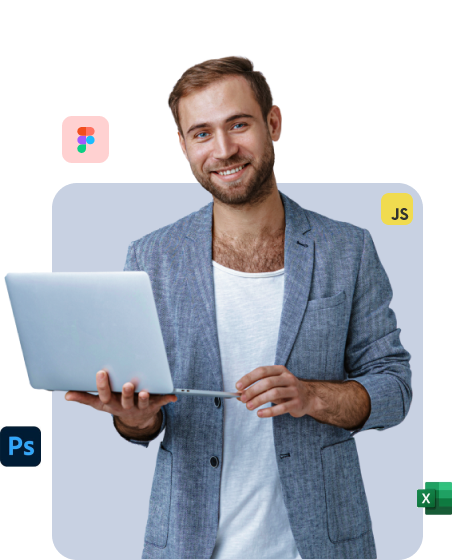
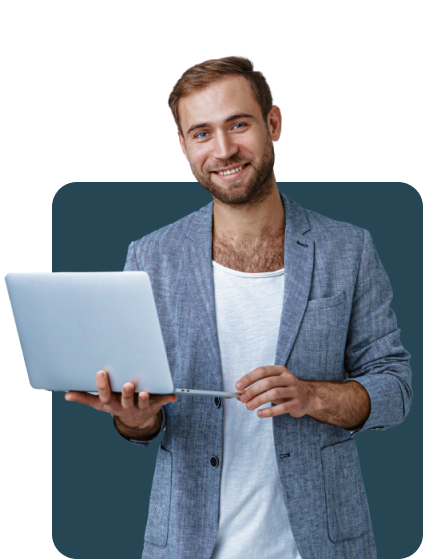
cambios en landing

diff --git a/src/Components/Header/Header.css b/src/Components/Header/Header.css
@@ -2,7 +2,7 @@
     left: 0;
     position: fixed;
     margin: 0 auto;
-    padding: 30px 0;
+    padding: 20px 0;
     top: 0;
     width: 100%;
     background-color: #fffcfcb8;
@@ -32,10 +32,10 @@
     font-size: 32px;
     font-weight: 700;
     text-decoration: none;
-    color: #757F8F;
+    color: #E76F51;
 }
 .work {
-    color: #273141;
+    color: #264653;
 }
 .nav {
     display: flex;
@@ -57,13 +57,23 @@
     cursor: pointer;
 }
 .button_login {
-    color: #757F8F;
-    border: 1px solid #8D8D8D;
-    background-color: transparent
+    color: white;
+    border: 1px solid #2A9D8F;
+    background-color: #2A9D8F
+}
+.button_login:hover{
+    background-color: #264653;
+    border: 1px solid #264653;
 }
 .button_register {
-   background-color: #757F8F;
-   color: #FFF
+   background-color: #F4A261;
+   border: 1px solid #F4A261;
+   color: white
+
+}
+.button_register:hover{
+   background-color: #E76F51;
+   border: 1px solid #E76F51;
 }
 .Header_ModalLogin {
     position: absolute;

diff --git a/src/Components/LandingPage/LandingPage.tsx b/src/Components/LandingPage/LandingPage.tsx
@@ -1,9 +1,13 @@
 import React, { useEffect } from 'react';
-import Top from './Top/Top';
+import TopClient from './TopClient/TopClient';
+import TopWorker from './TopWorker/TopWorker';
 import Header from '../Header/Header';
 import './LandingPage.css';
 import { useDispatch } from 'react-redux';
 import { checkSession } from '../../Redux/Reducer/reducer';
+import { Link } from 'react-router-dom';
+import newTab from "../../images/openNewTab.png"
+
 
 const LandingPage = () => {
   const dispatch = useDispatch();
@@ -16,7 +20,11 @@ const LandingPage = () => {
     <main className='Landing_component'>
         <Header/>
         <div className='Landing_divContent'>
-          <Top />
+          <TopClient/>
+          <TopWorker/>
+        </div>
+        <div className='Landing_buttonLogin'>
+        <Link to="/home" className='Landing_buttonAcceder'>Prueba la APP<img className='new_tabIcon' src={newTab} alt="" /></Link>
         </div>
     </main>
   )

diff --git a/src/Components/LandingPage/TopWorker/TopWorker.tsx b/src/Components/LandingPage/TopWorker/TopWorker.tsx
@@ -1,0 +1,21 @@
+import React from 'react';
+import { Link } from 'react-router-dom';
+import hero from '../../../images/sujeto2.png';
+import "./TopWorker.css"
+
+function TopWorker() {
+  return (
+    <div className='TopWorker_component'>
+      <div className='TopWorker_divImage'>
+        <img className='TopWorker_hero' src={hero} alt="hero" />
+      </div>
+      <div className='TopWorker_divDerecha'>
+        <h1 className='TopWorker_h1'>Encontrá las mejores <span className='Top_necesidad'>oportunidades</span> para <br/>tus <span className='h1_profesionales'>habilidades</span></h1>
+  
+        <p className='TopWorker_pageDescription'>Busca el proyecto perfecto para vos <br /> y enviale tu propuesta</p>
+      </div>
+    </div>
+  )
+}
+
+export default TopWorker

diff --git a/src/Components/LandingPage/TopClient/TopClient.tsx b/src/Components/LandingPage/TopClient/TopClient.tsx
@@ -1,0 +1,22 @@
+import React from 'react';
+import { Link } from 'react-router-dom';
+import hero from '../../../images/hero.png';
+import "./TopClient.css"
+import newTab from "../../../images/openNewTab.png"
+
+function TopClient() {
+  return (
+    <div className='Top_component'>
+      <div className='Top_divIzquierda'>
+        <h1 className='Top_h1'>Conectamos tu <span className='h1_necesidad'>necesidad</span> con los mejores <span className='h1_profesionales'>profesionales</span></h1>
+        
+        <p className='Top_pageDescription'>Publica un proyecto y comienza a recibir propuestas</p>
+      </div>
+      <div className='Top_divImage'>
+        <img className="Top_hero" src={hero} alt="hero" />
+      </div>
+    </div>
+  )
+}
+
+export default TopClient

diff --git a/src/Components/LandingPage/TopWorker/TopWorker.css b/src/Components/LandingPage/TopWorker/TopWorker.css
@@ -1,0 +1,43 @@
+.TopWorker_component {
+  display: flex;
+  justify-content: space-between;
+  width: 100%;
+  margin-top: 30px;
+}
+.TopWorker_divDerecha {
+  margin-top: 130px;
+  text-align: end;
+}
+.TopWorker_h1 {
+  font-size: 40px;
+  font-weight: 700;
+  line-height: 60px;
+  max-width: 450px;
+  color: #264653;
+  margin-bottom: 17px;
+  max-width: 450px;
+}
+.Top_necesidad {
+  color: #2A9D8F;
+}
+.h1_profesionales {
+  color: #E76F51;
+}
+.TopWorker_pageDescription {
+  font-size: 20px;
+  font-weight: 500;
+  line-height: 30px;
+  color: #264653;
+  margin-bottom: 50px;
+  max-width: 450px;
+}
+
+.new_tabIcon {
+  height: 29px;
+  width: 29px;
+}
+
+.TopWorker_hero{
+  max-width: 500px;
+  max-height: 500px;
+}

diff --git a/src/Components/LandingPage/TopClient/TopClient.css b/src/Components/LandingPage/TopClient/TopClient.css
@@ -1,0 +1,39 @@
+.Top_component {
+  display: flex;
+  justify-content: space-between;
+  width: 100%;
+}
+.Top_divIzquierda {
+  margin-top: 170px
+}
+.Top_h1 {
+  font-size: 40px;
+  font-weight: 700;
+  line-height: 60px;
+  max-width: 500px;
+  color: #264653;
+  margin-bottom: 17px;
+}
+.h1_necesidad {
+  color: #2A9D8F;
+}
+.h1_profesionales {
+  color: #E76F51;
+}
+.Top_pageDescription {
+  font-size: 20px;
+  font-weight: 500;
+  line-height: 30px;
+  color: #264653;
+  margin-bottom: 40px;
+  max-width: 400px;
+}
+.new_tabIcon {
+  height: 29px;
+  width: 29px;
+}
+
+.Top_hero{
+  max-width: 420px;
+  max-height: 515px;
+}

diff --git a/src/Components/LandingPage/LandingPage.css b/src/Components/LandingPage/LandingPage.css
@@ -4,5 +4,30 @@
   margin: 0 auto;
 }
 .Landing_divContent {
-  margin-top: 120px;
+  margin-top: 100px;
+}
+
+.Landing_buttonAcceder {
+  display: inline-flex;
+  align-items: center;
+  gap: 20px;
+  margin-left: 50px;
+  padding: 18px 24px;
+  background-color: #2A9D8F;
+  border-radius: 10px;
+  font-weight: 700;
+  font-size: 24px;
+  color: white;
+  text-decoration: none;
+  transition: all 0.3s ease;
+ 
+}
+.Landing_buttonAcceder:hover {
+  background-color: #264653;
+}
+
+.Landing_buttonLogin{
+  display: flex;
+  justify-content: center;
+  margin-top: 50px;
 }

diff --git a/src/Components/Footer/Footer.css b/src/Components/Footer/Footer.css
@@ -1,5 +1,5 @@
 .Footer_component {
-  background: #273141;
+  background: #264653;
   margin-top: 100px;
 }
 .Footer_contentDiv {
@@ -49,8 +49,19 @@
   transition: all 0.3s ease;
 }
 .Footer_link:hover {
-  color: #D6550D;
+  color: #E76F51;
 }
+
+.footer_logo{
+  font-size: 32px;
+  font-weight: 700;
+  text-decoration: none;
+  color: #E76F51;
+}
+.footer_work{
+  color: #2A9D8F;
+}
+
 
 .Footer_divLogoHenry {
   position: relative;
@@ -59,7 +70,4 @@
   position: absolute;
   right: 0;
   top: 32px;
-}
-.footer_work{
-  color:#D6550D;
 }

diff --git a/src/Components/Footer/Footer.tsx b/src/Components/Footer/Footer.tsx
@@ -8,7 +8,7 @@ function Footer() {
     <footer className='Footer_component'>
       <div className='Footer_contentDiv'>
         <div className='Footer_top'>
-          <span className='logo'>RE<span className='footer_work'>work</span></span>
+          <span className='footer_logo'>RE<span className='footer_work'>work</span></span>
         </div>
 
         <div className='Footer_bottom'>
